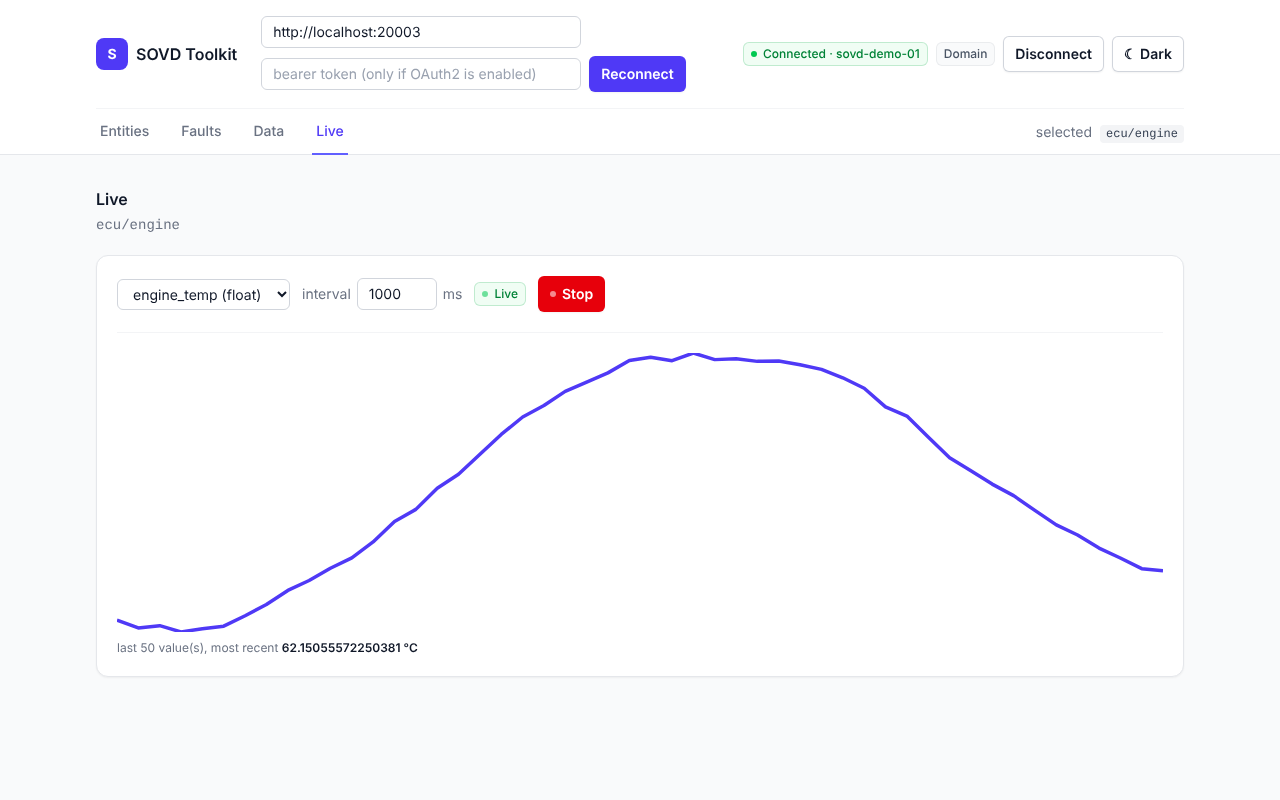
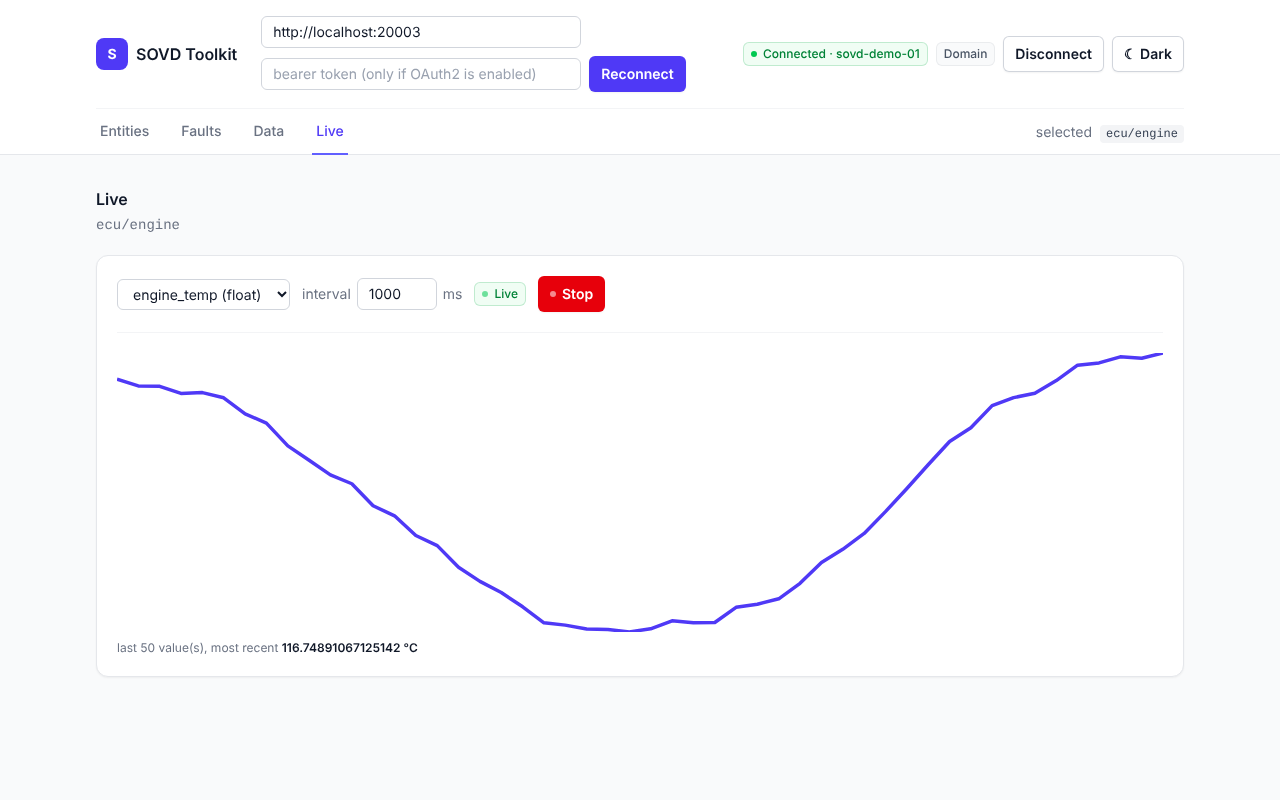
web: fix mobile wrapping and clipped Select at 390px
Claude-Session: https://claude.ai/code/session_01FYMcn5jeqQvgBxWVffCyNm

diff --git a/web/src/views/EntityBrowser.vue b/web/src/views/EntityBrowser.vue
@@ -19,7 +19,7 @@ const emit = defineEmits<{ select: [path: string] }>()
         <thead class="bg-gray-50 dark:bg-white/5">
           <tr>
             <th class="py-3.5 pl-4 pr-3 text-left text-sm font-semibold text-gray-900 sm:pl-6 dark:text-white">Path</th>
-            <th class="px-3 py-3.5 text-left text-sm font-semibold text-gray-900 dark:text-white">Type</th>
+            <th class="hidden px-3 py-3.5 text-left text-sm font-semibold text-gray-900 sm:table-cell dark:text-white">Type</th>
             <th class="px-3 py-3.5 text-left text-sm font-semibold text-gray-900 dark:text-white">Backend</th>
             <th class="py-3.5 pl-3 pr-4 sm:pr-6"></th>
           </tr>
@@ -27,7 +27,7 @@ const emit = defineEmits<{ select: [path: string] }>()
         <tbody class="divide-y divide-gray-200 dark:divide-white/10">
           <tr v-for="e in entities" :key="e.path" class="hover:bg-gray-50 dark:hover:bg-white/5">
             <td class="py-4 pl-4 pr-3 font-mono text-sm text-gray-900 sm:pl-6 dark:text-gray-100">{{ e.path }}</td>
-            <td class="px-3 py-4 text-sm text-gray-500 dark:text-gray-400">{{ e.type }}</td>
+            <td class="hidden px-3 py-4 text-sm text-gray-500 sm:table-cell dark:text-gray-400">{{ e.type }}</td>
             <td class="px-3 py-4 text-sm">
               <span :class="e.has_backend ? 'badge badge-green' : 'badge badge-gray'">{{ e.has_backend ? 'yes' : 'no' }}</span>
             </td>

diff --git a/web/src/style.css b/web/src/style.css
@@ -29,7 +29,7 @@ body {
    another's @apply. */
 @layer components {
   .btn {
-    @apply inline-flex items-center justify-center gap-1.5 rounded-md px-3 py-2 text-sm font-semibold shadow-xs transition-colors focus-visible:outline focus-visible:outline-2 focus-visible:outline-offset-2 disabled:cursor-not-allowed disabled:opacity-50;
+    @apply inline-flex items-center justify-center gap-1.5 whitespace-nowrap rounded-md px-3 py-2 text-sm font-semibold shadow-xs transition-colors focus-visible:outline focus-visible:outline-2 focus-visible:outline-offset-2 disabled:cursor-not-allowed disabled:opacity-50;
   }
   .btn-primary {
     @apply bg-indigo-600 text-white hover:bg-indigo-500 focus-visible:outline-indigo-600;
@@ -57,7 +57,7 @@ body {
   }
 
   .badge {
-    @apply inline-flex items-center rounded-md px-2 py-1 text-xs font-medium ring-1 ring-inset;
+    @apply inline-flex items-center whitespace-nowrap rounded-md px-2 py-1 text-xs font-medium ring-1 ring-inset;
   }
   .badge-green {
     @apply bg-green-50 text-green-700 ring-green-600/20 dark:bg-green-500/10 dark:text-green-400 dark:ring-green-500/20;

diff --git a/web/src/App.vue b/web/src/App.vue
@@ -120,7 +120,7 @@ function selectEntity(path: string) {
             </button>
           </form>
 
-          <div class="flex items-center gap-2 text-sm" role="status" aria-live="polite">
+          <div class="flex flex-wrap items-center gap-2 text-sm" role="status" aria-live="polite">
             <template v-if="client">
               <span class="badge badge-green">
                 <span class="mr-1.5 size-1.5 rounded-full bg-green-500"></span>
